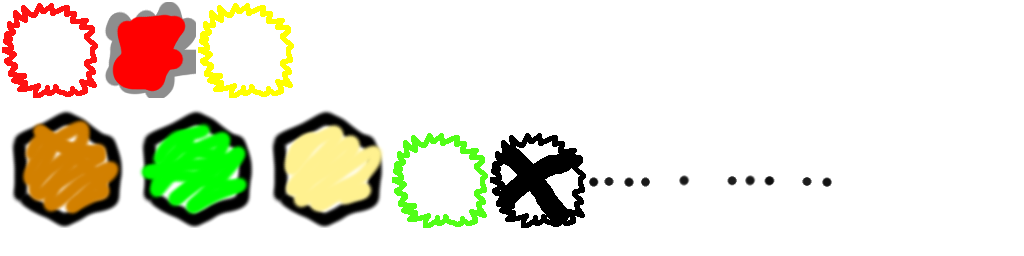
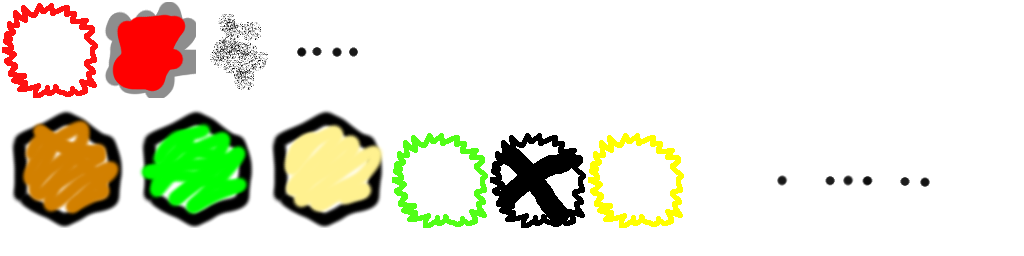
added cities

Changed region(s): [[0.5625, 0.5, 0.9062, 0.9062], [0.1875, 0.0, 0.375, 0.375]]

diff --git a/core/src/net/matthiasauer/abocr/map/supply/CityRenderSystem.java b/core/src/net/matthiasauer/abocr/map/supply/CityRenderSystem.java
@@ -1,0 +1,101 @@
+package net.matthiasauer.abocr.map.supply;
+
+import java.util.LinkedList;
+import java.util.List;
+
+import com.badlogic.ashley.core.Engine;
+import com.badlogic.ashley.core.Entity;
+import com.badlogic.ashley.core.Family;
+import com.badlogic.ashley.core.PooledEngine;
+import com.badlogic.ashley.systems.IteratingSystem;
+import com.badlogic.gdx.graphics.g2d.TextureAtlas.AtlasRegion;
+
+import net.matthiasauer.abocr.graphics.RenderComponent;
+import net.matthiasauer.abocr.graphics.RenderLayer;
+import net.matthiasauer.abocr.graphics.RenderPositionUnit;
+import net.matthiasauer.abocr.graphics.texture.TextureContainer;
+import net.matthiasauer.abocr.input.base.touch.InputTouchTargetComponent;
+import net.matthiasauer.abocr.input.click.ClickableComponent;
+import net.matthiasauer.abocr.map.owner.MapElementOwnerComponent;
+import net.matthiasauer.abocr.utils.Mappers;
+
+public class CityRenderSystem extends IteratingSystem {
+	@SuppressWarnings("unchecked")
+	private static final Family family =
+			Family.all(CityComponent.class).get();
+	private final TextureContainer<CityType> unitTypeTextureContainer;
+	private PooledEngine engine;
+	private final List<Entity> renderTargets;
+
+	public CityRenderSystem() {
+		super(family);
+		
+		this.unitTypeTextureContainer = new TextureContainer<CityType>();
+		this.unitTypeTextureContainer.add(CityType.Normal, "normalCity");
+
+		this.renderTargets = new LinkedList<Entity>();
+	}
+	
+	@Override
+	public void addedToEngine(Engine engine) {
+		this.engine = (PooledEngine)engine;
+		
+		super.addedToEngine(this.engine);
+	};
+	
+	@Override
+	public void update(float deltaTime) {
+		for (Entity entity : this.renderTargets) {
+			entity.removeAll();
+			this.engine.removeEntity(entity);
+		}
+		
+		this.renderTargets.clear();
+		
+		super.update(deltaTime);
+	}
+
+	@Override
+	protected void processEntity(Entity entity, float deltaTime) {
+		CityComponent cityComponent = 
+				Mappers.cityComponent.get(entity);
+		
+		this.displayCounterAndMakeItClickable(entity, cityComponent);
+	}
+	
+	private void displayCounterAndMakeItClickable(Entity entity, CityComponent cityComponent) {
+		AtlasRegion typeTexture =
+				this.unitTypeTextureContainer.get(cityComponent.type);
+		MapElementOwnerComponent ownerComponent =
+				Mappers.mapElementOwnerComponent.get(entity);
+		
+		
+		RenderComponent typeRenderComponent =
+				this.engine.createComponent(RenderComponent.class).set(
+						cityComponent.x,
+						cityComponent.y,
+						0,
+						RenderPositionUnit.Tiles,
+						typeTexture,
+						RenderLayer.Cities,
+						ownerComponent.owner.color);
+
+		entity.add(typeRenderComponent);
+		
+		this.makeClickable(entity, ownerComponent);
+	}
+	
+	private void makeClickable(Entity entity, MapElementOwnerComponent ownerComponent) {
+		// also make the counter clickable !
+		InputTouchTargetComponent inputTouchTargetComponent =
+				this.engine.createComponent(InputTouchTargetComponent.class);
+
+		if (ownerComponent.owner.interaction && ownerComponent.active) {
+			entity.add(new ClickableComponent());
+			entity.add(inputTouchTargetComponent);
+		} else {
+			entity.remove(ClickableComponent.class);
+			entity.remove(InputTouchTargetComponent.class);
+		}
+	}
+}

diff --git a/core/src/net/matthiasauer/abocr/map/MapView.java b/core/src/net/matthiasauer/abocr/map/MapView.java
@@ -28,6 +28,9 @@ import net.matthiasauer.abocr.map.owner.Owner;
 import net.matthiasauer.abocr.map.owner.OwnerManagementSystem;
 import net.matthiasauer.abocr.map.owner.player.AIPlayerSystem;
 import net.matthiasauer.abocr.map.owner.player.NeutralPlayerSystem;
+import net.matthiasauer.abocr.map.supply.CityComponent;
+import net.matthiasauer.abocr.map.supply.CityRenderSystem;
+import net.matthiasauer.abocr.map.supply.CityType;
 import net.matthiasauer.abocr.map.tile.TileComponent;
 import net.matthiasauer.abocr.map.tile.TileFastAccessSystem;
 import net.matthiasauer.abocr.map.tile.TileRenderSystem;
@@ -62,6 +65,7 @@ public class MapView extends ScreenAdapter {
 		
 		this.createMap();
 		this.createUnits();
+		this.createCities();
 		
 		this.engine.addSystem(new OwnerManagementSystem());
 
@@ -77,6 +81,7 @@ public class MapView extends ScreenAdapter {
 
 		this.engine.addSystem(new TileRenderSystem());
 		this.engine.addSystem(new UnitRenderSystem());
+		this.engine.addSystem(new CityRenderSystem());
 
 		this.engine.addSystem(new InputGestureEventGenerator(this.inputMultiplexer));
 		this.engine.addSystem(new InputTouchGeneratorSystem(this.inputMultiplexer, this.camera));
@@ -123,6 +128,7 @@ public class MapView extends ScreenAdapter {
 	private static final int xSize = 8;
 	private static final int ySize = 8;
 	private static final double unitChancePercentage = 25;
+	private static final double cityChancePercentage = 15;
 	
 	private static <T> T choice(T ... elements) {
 		int randomIndex = random.nextInt(elements.length);
@@ -149,6 +155,32 @@ public class MapView extends ScreenAdapter {
 					
 					
 					unit.add(unitComponent);
+					
+					unit.add(new MapElementOwnerComponent().set(owner, false));
+					
+					this.engine.addEntity(unit);
+				}
+			}
+		}
+		
+	}
+	
+	private void createCities() {
+		
+		for (int x = 0; x < xSize; x++) {
+			for (int y = 0; y < ySize; y++) {
+				if (random.nextInt(100) <= cityChancePercentage) {
+					Entity unit =
+							this.engine.createEntity();
+					Owner owner = choice(Owner.values());
+										
+					CityComponent cityComponent =
+							this.engine.createComponent(CityComponent.class);
+					cityComponent.x = x;
+					cityComponent.y = y;
+					cityComponent.type = choice(CityType.values());
+					
+					unit.add(cityComponent);
 					
 					unit.add(new MapElementOwnerComponent().set(owner, false));
 					

diff --git a/core/src/net/matthiasauer/abocr/utils/Mappers.java b/core/src/net/matthiasauer/abocr/utils/Mappers.java
@@ -5,12 +5,15 @@ import com.badlogic.ashley.core.ComponentMapper;
 import net.matthiasauer.abocr.input.click.ClickedComponent;
 import net.matthiasauer.abocr.map.owner.ActivePlayerComponent;
 import net.matthiasauer.abocr.map.owner.MapElementOwnerComponent;
+import net.matthiasauer.abocr.map.supply.CityComponent;
 import net.matthiasauer.abocr.map.tile.TileComponent;
 import net.matthiasauer.abocr.map.unit.UnitComponent;
 
 public class Mappers {
 	public static final ComponentMapper<UnitComponent> unitComponent = 
 			ComponentMapper.getFor(UnitComponent.class);
+	public static final ComponentMapper<CityComponent> cityComponent =
+			ComponentMapper.getFor(CityComponent.class);
 	public static final ComponentMapper<MapElementOwnerComponent> mapElementOwnerComponent =
 			ComponentMapper.getFor(MapElementOwnerComponent.class);
 	public static final ComponentMapper<ActivePlayerComponent> activePlayerComponent =

diff --git a/desktop/src/net/matthiasauer/abocr/desktop/Tools.java b/desktop/src/net/matthiasauer/abocr/desktop/Tools.java
@@ -4,8 +4,8 @@ import com.badlogic.gdx.tools.texturepacker.TexturePacker;
 
 public class Tools {
 	public static void main(String[] args) {
-		String inputDir = "C:\\Users\\mail_000\\SkyDrive\\LibGDX\\ABOCR\\gfxSource\\data1.atlas";
-		String outputDir = "C:\\Users\\mail_000\\SkyDrive\\LibGDX\\ABOCR\\android\\assets";
+		String inputDir = "C:\\Users\\mail_000\\OneDrive\\LibGDX\\ABOCR\\gfxSource\\data1.atlas";
+		String outputDir = "C:\\Users\\mail_000\\OneDrive\\LibGDX\\ABOCR\\android\\assets";
 		String packFileName = "data1.atlas";
 
         TexturePacker.process(inputDir, outputDir, packFileName);

diff --git a/core/src/net/matthiasauer/abocr/map/supply/CityComponent.java b/core/src/net/matthiasauer/abocr/map/supply/CityComponent.java
@@ -1,0 +1,23 @@
+package net.matthiasauer.abocr.map.supply;
+
+import com.badlogic.ashley.core.Component;
+import com.badlogic.gdx.utils.Pool.Poolable;
+
+public class CityComponent implements Component, Poolable {
+	public CityType type;
+	public int x;
+	public int y;
+	
+	public CityComponent set(CityType cityType, int x, int y) {
+		this.x = x;
+		this.y = y;
+		this.type = cityType;
+		
+		return this;
+	}
+	
+	@Override
+	public void reset() {
+		this.set(null, 0, 0);
+	}
+}

diff --git a/core/src/net/matthiasauer/abocr/graphics/RenderLayer.java b/core/src/net/matthiasauer/abocr/graphics/RenderLayer.java
@@ -2,6 +2,7 @@ package net.matthiasauer.abocr.graphics;
 
 public enum RenderLayer {
 	Tiles(1, true),
+	Cities(85, true),
 	UnitType(100, true),
 	UnitSelection(150, true),
 	UI(1000, false);

diff --git a/core/src/net/matthiasauer/abocr/map/supply/CityType.java b/core/src/net/matthiasauer/abocr/map/supply/CityType.java
@@ -1,0 +1,5 @@
+package net.matthiasauer.abocr.map.supply;
+
+public enum CityType {
+	Normal
+}
